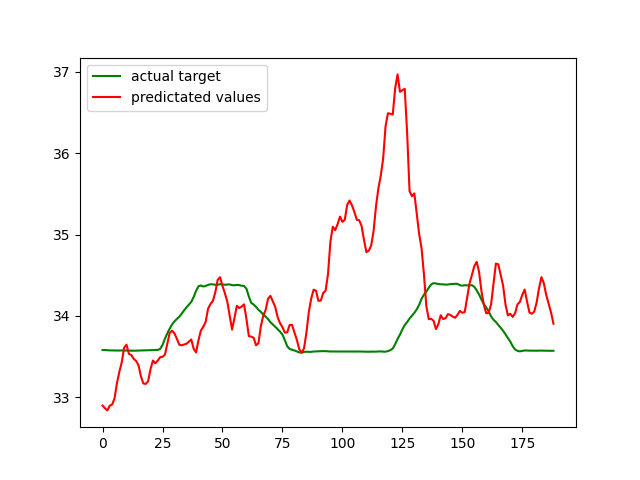
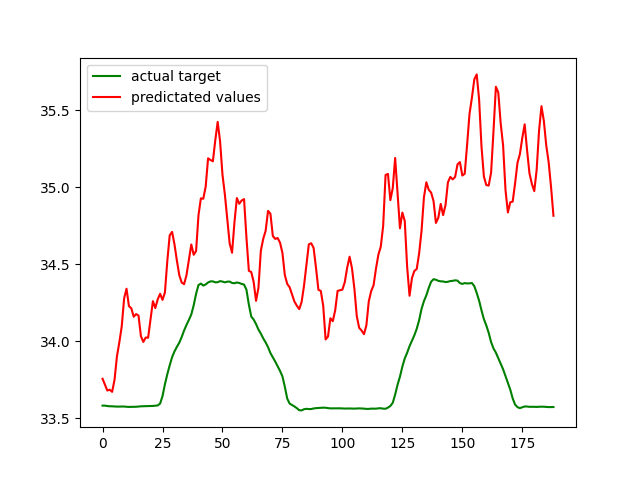
check again predictions after RMSE

diff --git a/feedforward.py b/feedforward.py
@@ -112,7 +112,7 @@ def main():
 
     # Create the model
     model = Sequential()
-    model.add(Dense(20, activation='relu',input_dim=n_input))
+    model.add(Dense(100, activation='relu',input_dim=n_input))
     model.add(Dropout(.2))
     model.add(Dense(5, activation = 'relu'))
     model.add(Dense(n_steps_out))
